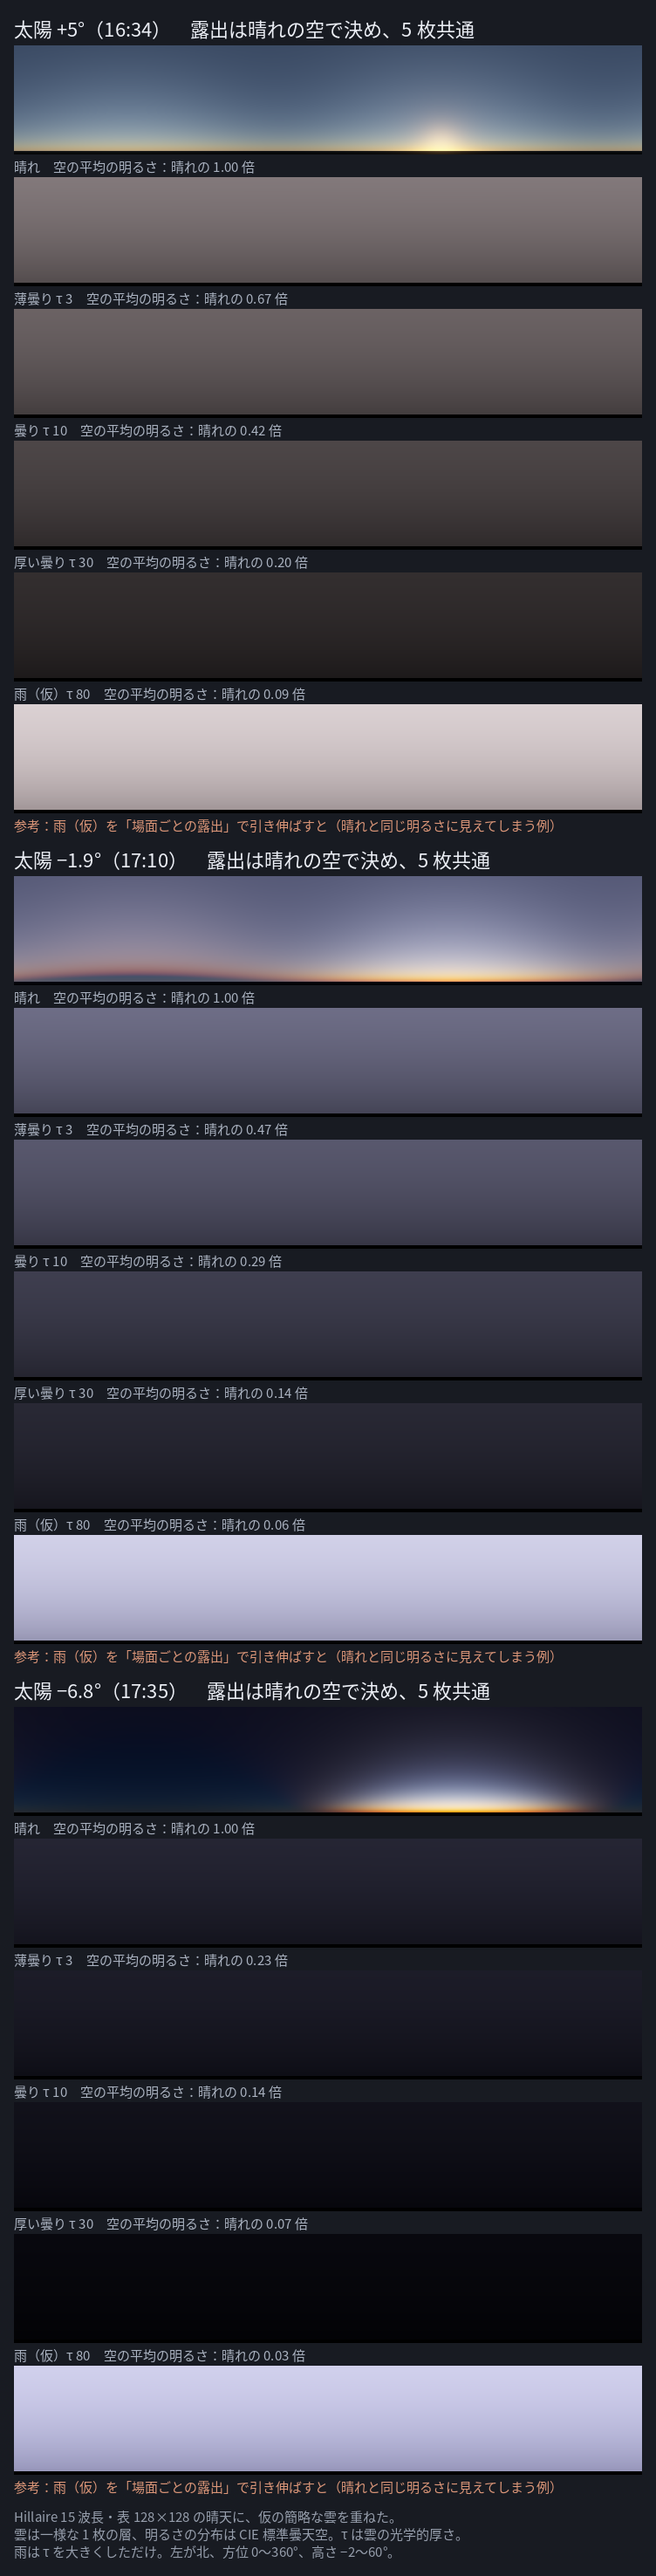
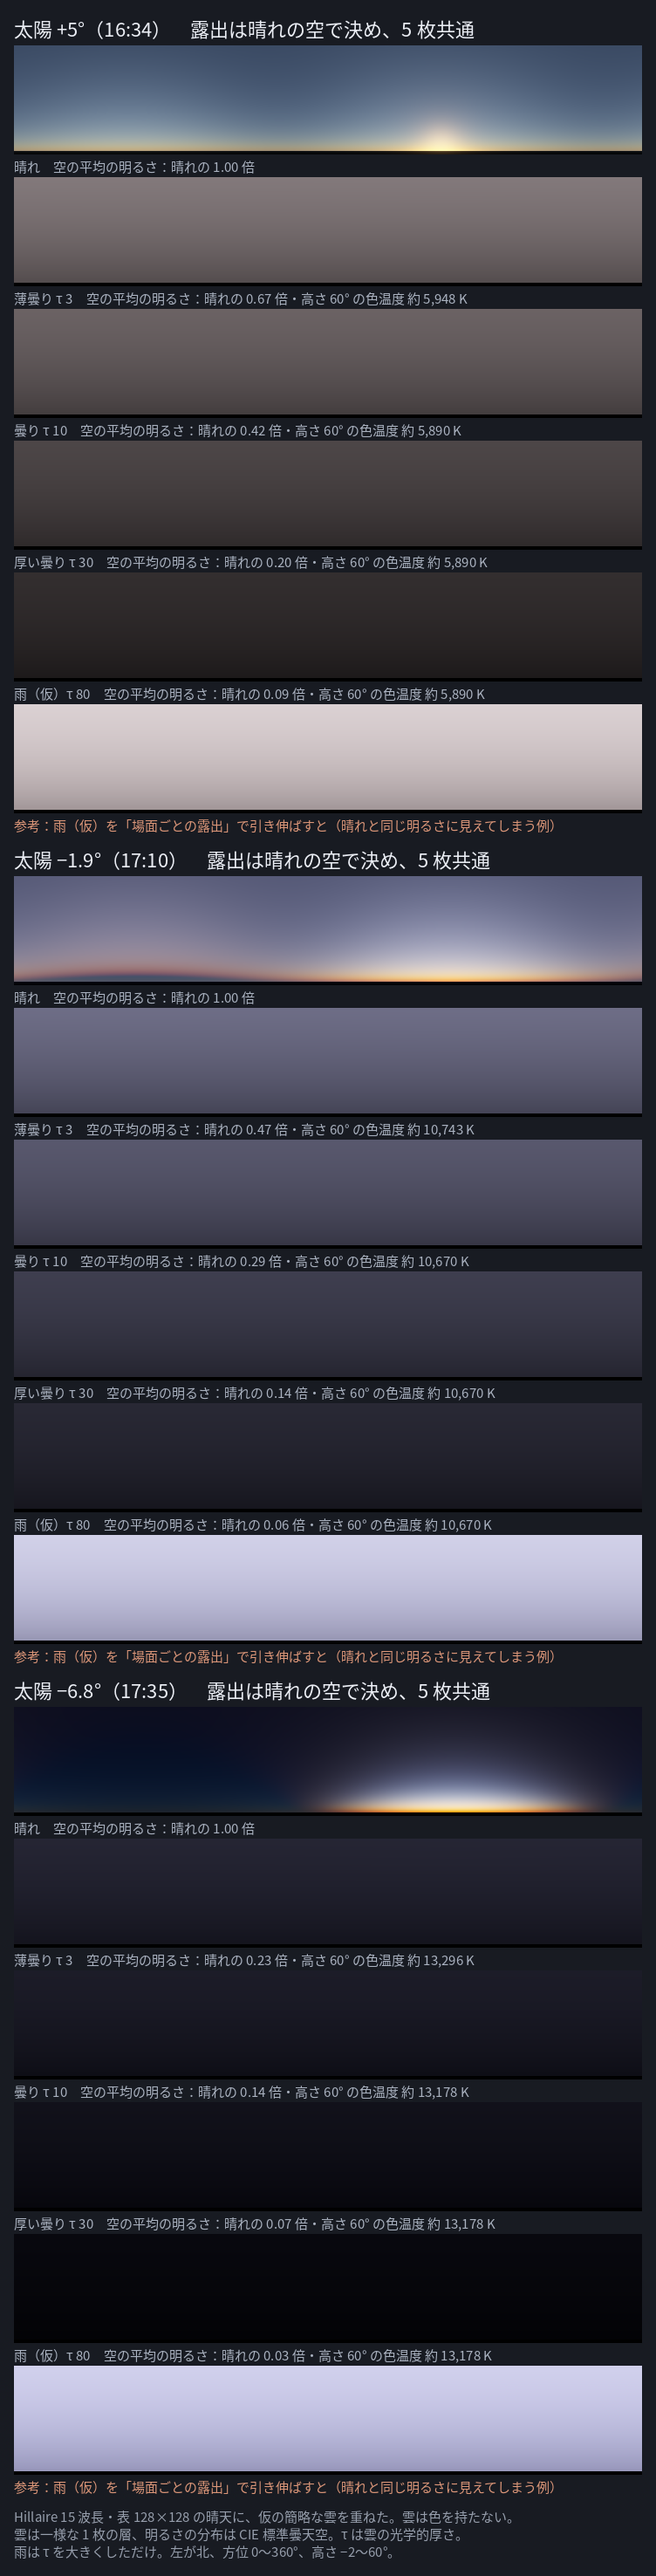
β2：雲を通った光の色（Lee・Hernández-Andrés 2005 の λ^−c、CLOUD_SPECTRAL）と比べた画像
Claude-Session: https://claude.ai/code/session_01RjnFdougtt3G8DceQLuFWS

diff --git a/research/sky-beta2/tools/weather_sim.py b/research/sky-beta2/tools/weather_sim.py
@@ -9,7 +9,7 @@ python3 research/sky-beta2/tools/weather_sim.py <cases.json> <比較ページの
 - 雨は τ を大きくしただけ（雨粒・雨のかすみ・雲底の高さは入れていない）
 露出は「晴天の基準」：その時刻の晴天の帯の 99 パーセンタイルで決め、同じ時刻の天気はすべて同じ露出で表示する。
 比べのため、雨を「場面ごとの露出」で引き伸ばした 1 枚も足す（これが不自然になる例）。"""
-import json, math, re, sys
+import json, math, os, re, sys
 import numpy as np
 from PIL import Image, ImageDraw, ImageFont
 
@@ -41,6 +41,36 @@ def direct_horizontal(alt_deg):
     e = sol * np.exp(-TAU_V * m) * math.sin(math.radians(alt_deg))  # W/m²/nm
     xyz = 683 * D * e @ cmf
     return M @ xyz
+
+
+# 雲の分光の透過（環境変数 CLOUD_SPECTRAL=1）：Lee・Hernández-Andrés（2005、Applied Optics 44, 5712）の測定では、曇天の透過は λ^−c に比例し、
+# 薄い層雲で c ≈ 0.270、厚い層雲で c ≈ 0.611（太陽 5° 以上）。仕組みは、多重散乱で長くなった光路での水滴の弱い吸収（590 nm より長い側）。
+# ここでは c を τ 3 で 0.27、τ 30 で 0.611、その間は log τ で線形（**仮**。論文の「薄い・厚い」の境の τ は確かめていない）。550 nm で 1 に正規化。
+SPECTRAL = os.environ.get("CLOUD_SPECTRAL") == "1"
+LAM = np.sort(np.array(lam))
+
+
+def cloud_c(tau):
+    if tau <= 3:
+        return 0.27
+    if tau >= 30:
+        return 0.611
+    return 0.27 + (0.611 - 0.27) * (math.log(tau) - math.log(3)) / (math.log(30) - math.log(3))
+
+
+def tint(tau, base_spec):
+    """雲の分光の透過を、基準の分光（雲の上に届く光の近似）に掛けたときの、線形 sRGB の各成分の倍率。"""
+    f = (LAM / 550.0) ** -cloud_c(tau)
+    a = M @ (base_spec @ cmf)
+    b = M @ ((base_spec * f) @ cmf)
+    return b / a
+
+
+def cct(rgb):
+    X, Y, Z = np.linalg.solve(M, rgb)
+    x, y = X / (X + Y + Z), Y / (X + Y + Z)
+    n = (x - 0.3320) / (0.1858 - y)
+    return 449 * n**3 + 3525 * n**2 + 6823.3 * n + 5520.33  # McCamy
 
 
 def srgb(x):
@@ -98,23 +128,40 @@ for c in cases["cases"]:
             through = np.exp(-tau / np.maximum(sa, 0.05))[:, None, None] * clear
             Td = max(Tt - (math.exp(-tau / mu0) if mu0 > 0 else 0.0), 0.0)
             Lz = 9 * Td * E_top / (7 * math.pi)
+            if SPECTRAL:
+                # 基準の分光：雲の上に届く光を、直達（太陽の分光 × 透過）と天空（D65 に近い昼光の代わりに太陽の分光 × λ^−4 で 550 nm 正規化）の照度の比で混ぜた近似
+                zz = 90 - max(c["sunAlt"], 0.5)
+                mm = 1 / (math.cos(math.radians(zz)) + 0.50572 * (96.07995 - zz) ** -1.6364)
+                sdir = sol * np.exp(-TAU_V * mm)
+                ssky = sol * (LAM / 550.0) ** -4
+                wd = E_dir[1] / max(E_top[1], 1e-9)
+                base = wd * sdir / max(float(M[1] @ (sdir @ cmf)), 1e-12) + (1 - wd) * ssky / float(M[1] @ (ssky @ cmf))
+                Lz = Lz * tint(tau, base)
             dome = ((1 + 2 * np.maximum(sa, 0)) / 3)[:, None, None] * Lz[None, None, :]
             L = through + np.where(up[:, None, None], dome, 0.0)
         mean_g = float(L[up][..., 1].mean())
-        summary[c["id"]]["weathers"][name] = {"tau": tau, "T": Tt, "mean_G_cd": mean_g}
+        cz = None
+        if tau > 0:
+            zrow = L[-1].mean(axis=0)
+            try:
+                cz = float(cct(zrow))
+            except Exception:
+                cz = None
+        summary[c["id"]]["weathers"][name] = {"tau": tau, "T": Tt, "mean_G_cd": mean_g, "cct_60deg_K": cz}
         img.paste(Image.fromarray(show(L, e_ref)[::-1]), (16, y))
         rel = mean_g / summary[c["id"]]["weathers"]["晴れ"]["mean_G_cd"]
-        dr.text((16, y + H + 2), f"{name}　空の平均の明るさ：晴れの {rel:.2f} 倍", font=f_l, fill=(170, 178, 192))
+        extra = f"・高さ 60° の色温度 約 {cz:,.0f} K" if (cz and tau > 0) else ""
+        dr.text((16, y + H + 2), f"{name}　空の平均の明るさ：晴れの {rel:.2f} 倍{extra}", font=f_l, fill=(170, 178, 192))
         y += row_h + 5
         rain_L = L
     e_rain = 1.0 / np.percentile(rain_L[up][..., 1], 99)
     img.paste(Image.fromarray(show(rain_L, e_rain)[::-1]), (16, y))
     dr.text((16, y + H + 2), "参考：雨（仮）を「場面ごとの露出」で引き伸ばすと（晴れと同じ明るさに見えてしまう例）", font=f_l, fill=(220, 150, 120))
     y += row_h + 15
-for k, t in enumerate(["Hillaire 15 波長・表 128×128 の晴天に、仮の簡略な雲を重ねた。", "雲は一様な 1 枚の層、明るさの分布は CIE 標準曇天空。τ は雲の光学的厚さ。", "雨は τ を大きくしただけ。左が北、方位 0〜360°、高さ −2〜60°。"]):
+for k, t in enumerate(["Hillaire 15 波長・表 128×128 の晴天に、仮の簡略な雲を重ねた。" + ("雲の分光の透過は Lee・Hernández-Andrés 2005 の λ^−c（仮の割り当て）。" if SPECTRAL else "雲は色を持たない。"), "雲は一様な 1 枚の層、明るさの分布は CIE 標準曇天空。τ は雲の光学的厚さ。", "雨は τ を大きくしただけ。左が北、方位 0〜360°、高さ −2〜60°。"]):
     dr.text((16, y + 20 * k), t, font=f_l, fill=(150, 158, 172))
 img.save(out_png)
 if out_json:
     json.dump(summary, open(out_json, "w"), ensure_ascii=False, indent=1)
 for k, v in summary.items():
-    print(k, {n: round(w["mean_G_cd"] / v["weathers"]["晴れ"]["mean_G_cd"], 3) for n, w in v["weathers"].items()}, "E_top G", round(v["E_top_lux_G"], 1), "direct", round(v["E_direct_G"], 1))
+    print(k, {n: (round(w["mean_G_cd"] / v["weathers"]["晴れ"]["mean_G_cd"], 3), None if w["cct_60deg_K"] is None else round(w["cct_60deg_K"])) for n, w in v["weathers"].items()})
